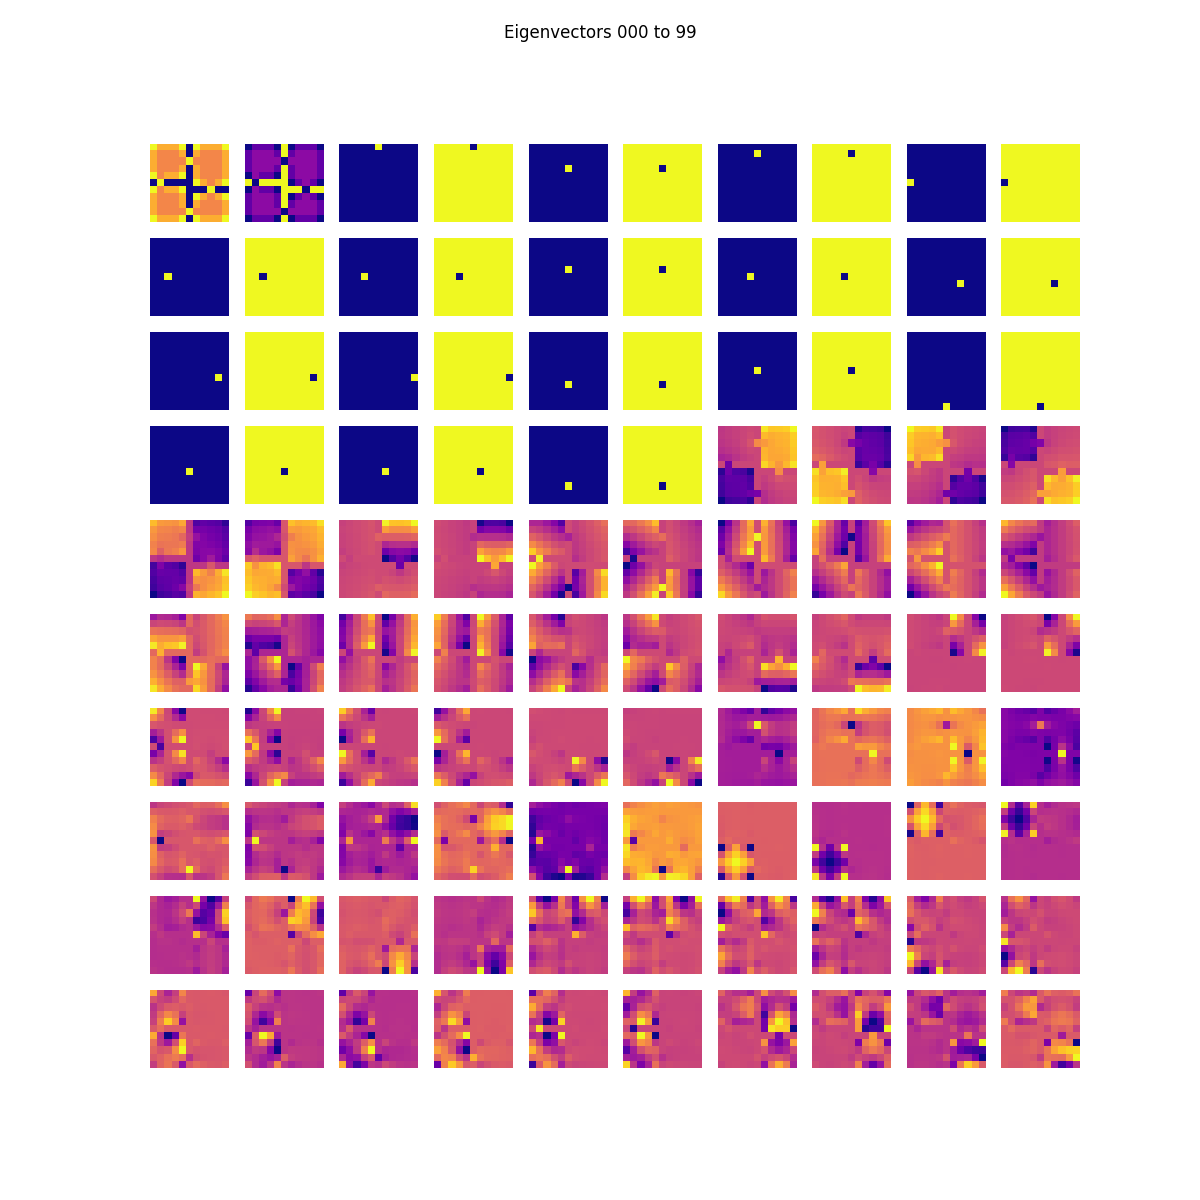
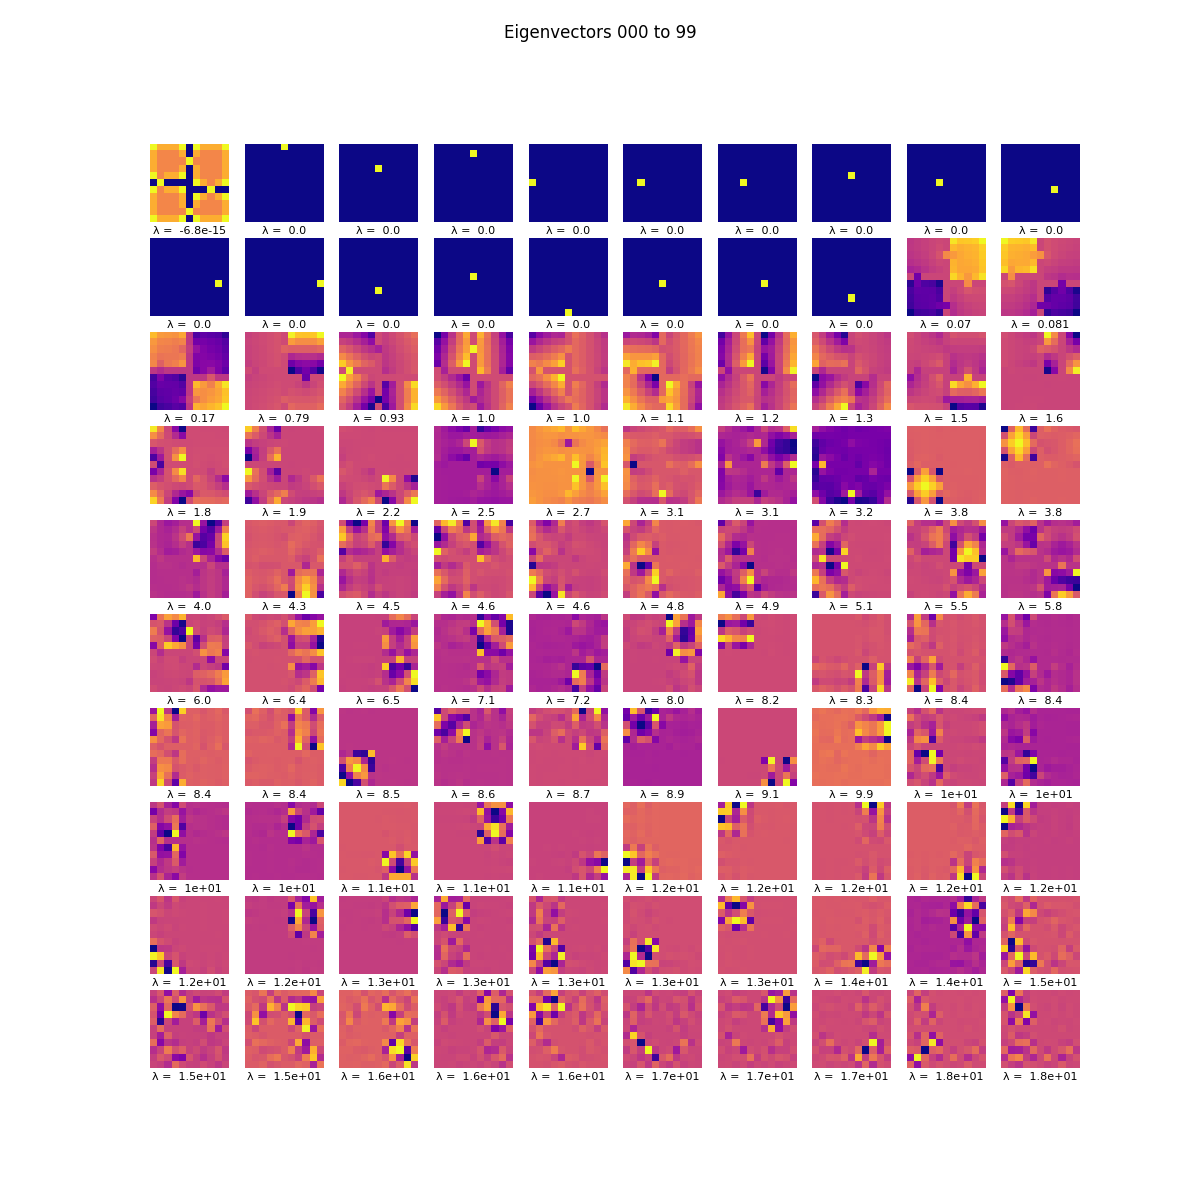
feat: shows+stores eigenvalues alongside eigvecs

Changed region(s): [[0.1233, 0.0925, 0.925, 0.8942]]

diff --git a/options.py b/options.py
@@ -28,6 +28,7 @@ class Options(object):
 
         self.glue = rlglue.RLGlue(self.env, self.agent)
 
+        self.eigenvalues = None
         self.eigenvectors = None
         self.eigenoptions = []
         self.option_idx = 0
@@ -50,13 +51,14 @@ class Options(object):
         # Compute adjacency matrix (take all possible actions from every state)
         adjacency = np.zeros((total_states, total_states), dtype = int)
         for state in range(total_states):
-            for a in range(default_max_actions):
-                # Take a specified action from a given start state
-                self.env.set_current_state(state)
-                result = self.glue.environment.step(a)
-                next_state = result["state"][0]
-                if next_state != state:
-                    adjacency[state][next_state] = 1
+            if states_rc[state] not in self.env.obstacle_vector:
+                for a in range(default_max_actions):
+                    # Take a specified action from a given start state
+                    self.env.set_current_state(state)
+                    result = self.glue.environment.step(a)
+                    next_state = result["state"][0]
+                    if next_state != state:
+                        adjacency[state][next_state] = 1
 
         D = np.zeros((total_states, total_states), dtype = int)
 
@@ -75,18 +77,23 @@ class Options(object):
         # sort in order of increasing eigenvalue
         # self.eigenoptions will be computed lazily
         idx = np.argsort(w)
-        eigenvalues = w[idx]
+        self.eigenvalues = w[idx]
+        # print("Eigenvalues: ", eigenvalues)
         self.eigenvectors = v[idx,:]
         # Adding eigenvectors in the opposite directions
         shape = self.eigenvectors.shape
-        shape = (shape[0] * 2, shape[1])
+        # shape = (shape[0] * 2, shape[1])
         eigenvectors = np.zeros(shape)
         for idx in range(len(self.eigenvectors)):
-            v1 = self.eigenvectors[idx] * 1
-            # v2 is the opposite eigenvector
-            v2 = self.eigenvectors[idx] * -1
-            eigenvectors[idx*2] = v1
-            eigenvectors[idx*2 + 1] = v2
+            ## This plots the eigenvectors in opposite directions, dont really need it
+            # v1 = self.eigenvectors[idx] * 1
+            # # v2 is the opposite eigenvector
+            # v2 = self.eigenvectors[idx] * -1
+            # eigenvectors[idx*2] = v1
+            # eigenvectors[idx*2 + 1] = v2
+
+            v = self.eigenvectors[idx] * 1
+            eigenvectors[idx] = v
 
         self.eigenvectors = eigenvectors
 
@@ -158,6 +165,8 @@ class Options(object):
                         ax = plt.subplot2grid((10,10), (i,j))
                         try:
                             ax.imshow(eigvec_imgs[10*i + j], cmap='plasma', interpolation='nearest')
+                            ax.text(0.5, -0.15, f'λ =  {self.eigenvalues[10 * i + j]:.2}', fontsize=8,
+                                    ha='center', transform=ax.transAxes)
                         except IndexError:
                             # this happens on the final page where we dont fill up all 100 subplots
                             ax.imshow(np.zeros((max_row, max_col)), cmap='plasma', interpolation='nearest')
